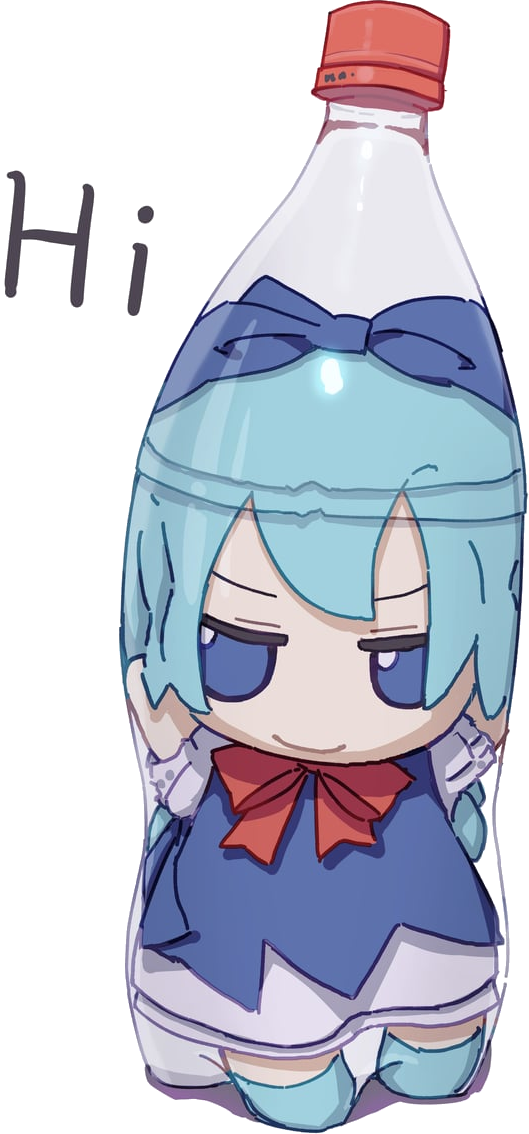
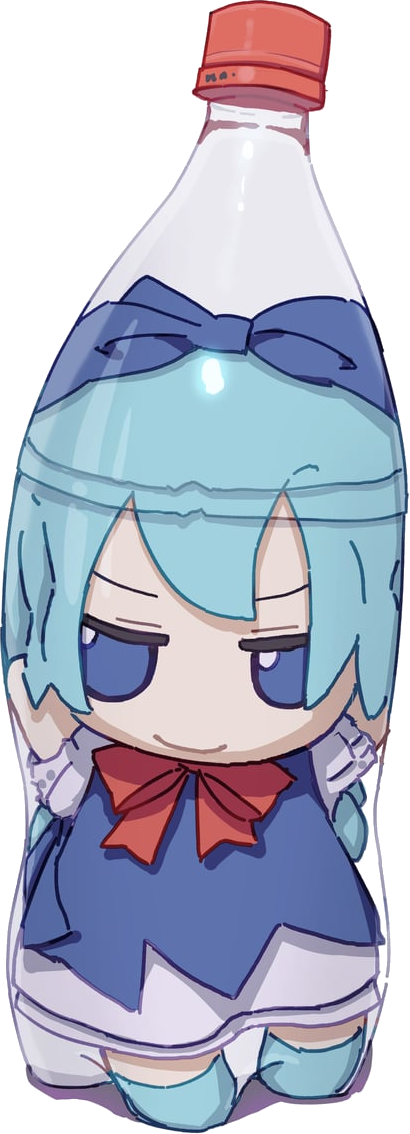
Remove lettering from the three Cirno decals

diff --git a/srp-026g/scripts/fumo-neco-decals/make_pack.py b/srp-026g/scripts/fumo-neco-decals/make_pack.py
@@ -40,7 +40,7 @@ def main():
         items.append({'dict_id': dict_id, 'rc': rc, 'icon': icon, 'cutout': filename,
                       'names': {lang: table[key] for lang, table in names.items()}})
         cutouts[filename] = (HERE / 'cutouts' / filename).read_bytes()
-    cloth.build(args.out, None, cutouts, stock, items, 'fumo-neco-decals', '1',
+    cloth.build(args.out, None, cutouts, stock, items, 'fumo-neco-decals', '2',
                 'Bottled fumo, Snail fumo, Just fumo fumo and Neco-Arc (2672–2675), give-only cloth decals',
                 ['Artwork credits and sources: srp-026g/scripts/fumo-neco-decals/README.md'])
 

diff --git a/srp-026g/scripts/fumo-neco-decals/README.md b/srp-026g/scripts/fumo-neco-decals/README.md
@@ -9,11 +9,11 @@ These four give-only decals use the stock 0.26g flag cloth, specular and fresnel
 | D25 | Just fumo fumo | 2674 | 4_81 | [1, 23] | [omi imo](https://twitter.com/omikami_art/status/1699407337763602895) |
 | N3 | Neco-Arc | 2675 | 4_82 | [1, 24] | [Melty Blood: Type Lumina idle sprite, first frame of the selected sticker](https://tenor.com/view/neco-arc-melty-blood-type-lumina-idle-cat-gif-26528718) |
 
-The cutouts remove the connected white background. The bottle's “Hi” and the meme caption have a light outline for dark equipment.
+The Cirno cutouts use only the illustrated figures. The table credits the original artists.
 
 Build with the dependencies listed in [the Snufkin pack builder](../snufkin-decals/make_pack.py) and the same stock inputs.
 
 ```sh
 python3 -I srp-026g/scripts/fumo-neco-decals/make_pack.py \
-    --stock /path/to/extracted-4_41 --out /path/to/packs/fumo-neco-decals-1
+    --stock /path/to/extracted-4_41 --out /path/to/packs/fumo-neco-decals-2
 ```
